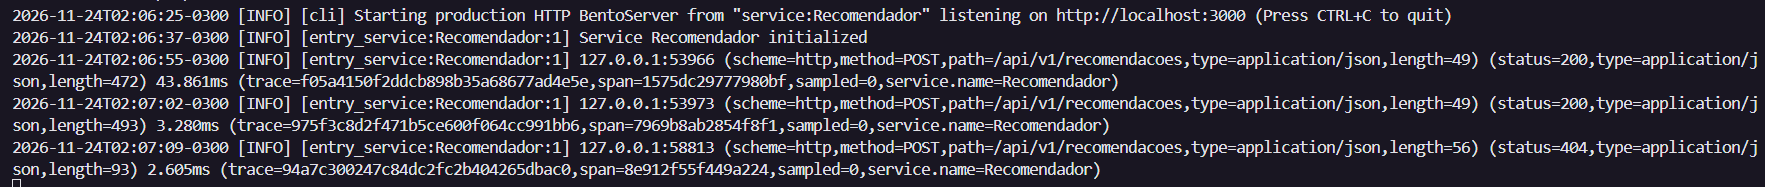
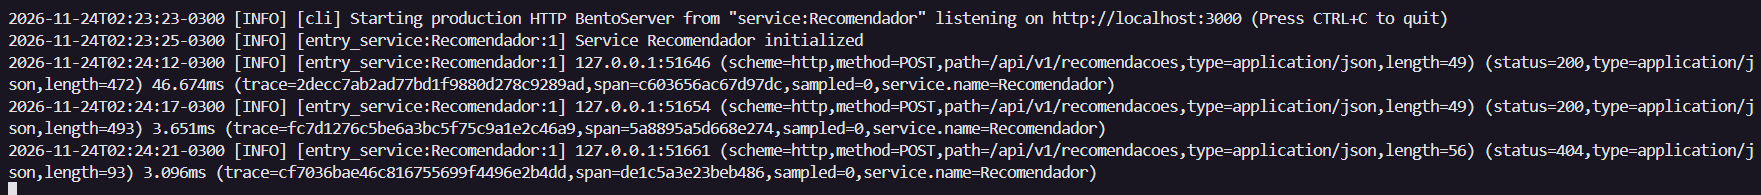
atualiza evidencias e ajeita funcoes novas

diff --git a/acesso_dados.py b/acesso_dados.py
@@ -12,22 +12,30 @@ def carregar_catalogo() -> dict:
     return json.loads(DADOS.read_text(encoding="utf-8"))
 
 
-def buscar_produto(produto_id: str, produtos: dict[str, dict]) -> dict | None:
+def _produtos_por_id() -> dict[str, dict]:
+    """Lê o catálogo e devolve os produtos indexados pelo id."""
+    return {p["id"]: p for p in carregar_catalogo()["produtos"]}
+
+
+def buscar_produto(produto_id: str) -> dict | None:
     """Busca o produto pelo ID ou retorna None quando ele não existe."""
-    return produtos.get(produto_id)
+    return _produtos_por_id().get(produto_id)
 
 
 def listar_produtos_parecidos(
-    produto: dict,
-    produtos: dict[str, dict],
+    produto_id: str,
     *,
     incluir_mesma_regiao: bool = False,
 ) -> list[dict]:
     """Lista outros produtos em estoque da mesma técnica, a categoria do catálogo.
 
     Se solicitado, também inclui produtos da mesma região. Retorna uma lista
-    vazia quando não há candidatos.
+    vazia quando o produto não existe ou não há candidatos.
     """
+    produtos = _produtos_por_id()
+    produto = produtos.get(produto_id)
+    if produto is None:
+        return []
     return [
         candidato
         for candidato in produtos.values()

diff --git a/service.py b/service.py
@@ -52,8 +52,7 @@ class Recomendador:
                 "recomendacoes": [],
             }
 
-        produtos = self.artefato["produtos"]
-        atual = buscar_produto(produto_id, produtos)
+        atual = buscar_produto(produto_id)
         if atual is None:
             ctx.response.status_code = 404
             return {
@@ -67,7 +66,7 @@ class Recomendador:
         cooc_pagina = self.artefato["cooc"].get(produto_id, {})
 
         candidatos = []
-        for p in listar_produtos_parecidos(atual, produtos, incluir_mesma_regiao=True):
+        for p in listar_produtos_parecidos(produto_id, incluir_mesma_regiao=True):
             pid = p["id"]
             if p["tecnica"] == atual["tecnica"]:
                 motivo = "mesma_tecnica"
